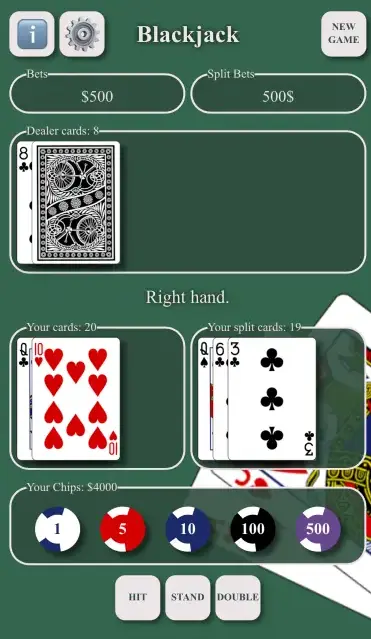
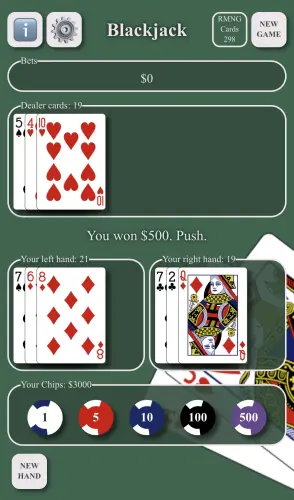
readme, css, img, html, js

diff --git a/css/style.css b/css/style.css
@@ -135,7 +135,7 @@ legend {
     max-width: 600px;
 }
 
-.pots-container div{
+.pots-container div {
     font-size: 16px;
 }
 
@@ -171,7 +171,7 @@ legend {
     width: 100%;
 }
 
-.common-player-cards-container{
+.common-player-cards-container {
     display: flex;
     justify-content: space-between;
     margin: 0 auto;
@@ -182,7 +182,7 @@ legend {
     gap:5px;
 }
 
-.display-none{
+.display-none {
     display: none;
 }
 
@@ -198,7 +198,7 @@ legend {
     gap: 20px;
 }
 
-.buttons-container{
+.buttons-container {
     background: none;
     border: none;
     gap: 5px;
@@ -351,11 +351,14 @@ legend {
     color: var(--hover-text);
 }
 
-.popup > label{
+.popup > label {
     display: flex;
+    align-items: center;
+    justify-content: center;
+
 }
 
-.popup > label > input{
+.popup > label > input {
     margin: 0 auto;
 }
 
@@ -367,7 +370,7 @@ legend {
     line-height: 24px;
 }
 
-.settings-container p > input{
+.settings-container p > input {
     display: block;
     margin: 0 auto;
     width: 80%;

diff --git a/index.html b/index.html
@@ -88,7 +88,7 @@
                     <li>If the value of your first two cards are the same, you can split your cards.</li>
                     <li>Rules are from <a href="https://en.wikipedia.org/wiki/Blackjack" target="_blank">here.</a>
                 </ul>
-                <h3>Good Luck!</h3>
+                <h3>Good luck, have fun!</h3>
                 <p>Cards & decks are from <a href="http://www.deckofcardsapi.com/" target="_blank">Deck of Cards</a>. Thanks for them! &#128515;</p>
                 <p>I made this game with HTML, CSS and Vanilla JavaScript.</p>
                 <p>GitHub repo is <a href="https://github.com/NaGyRyT/blackjack" target="_blank">here</a>.</p>

diff --git a/js/main.js b/js/main.js
@@ -395,7 +395,7 @@ async function handleSplit() {
     temp = temp.cards;
     playerSplitCards.push(temp[0]);
     message = "Left hand."
-    if (sumCardsValues(playerCards) === 21){
+    if (sumCardsValues(playerCards) === 21) {
         handleStand();
     }
     enableButtons();

diff --git a/README.md b/README.md
@@ -7,14 +7,15 @@ You can try it, here is the GitHub Pages [link](https://nagyryt.github.io/blackj
 
 - Default there are 6 decks in a hand, but you can set it between 1-8.
 - There will be new decks if the number of remaining cards is 52 or less (1 deck) or if you start a new game.
+- You can see remaining cards if you enable it in the setting. Default is disabled.
 - Default starting chips are $2500, but you can set it between $100 - $5000.
-- I store both values in the browser's Local Storage.
+- I store all three values in the browser's local storage.
 - Blackjack pays 3 to 2.
 - Dealer must stand on 17.
 - If the dealer's first card is an ace you can take out insurance. Insurance is half your bet and pays 2 to 1.
 - If the value of your first two cards are the same, you can split your cards.
 - Rules are from [here](https://en.wikipedia.org/wiki/Blackjack).
-## God Luck!
+## Good luck, have fun!
 Cards & decks are from [Deck of Cards](http://www.deckofcardsapi.com/). Thanks for them! :+1: :clap: :smile:
 
 I made this game with HTML, CSS and Vanilla JavaScript.
